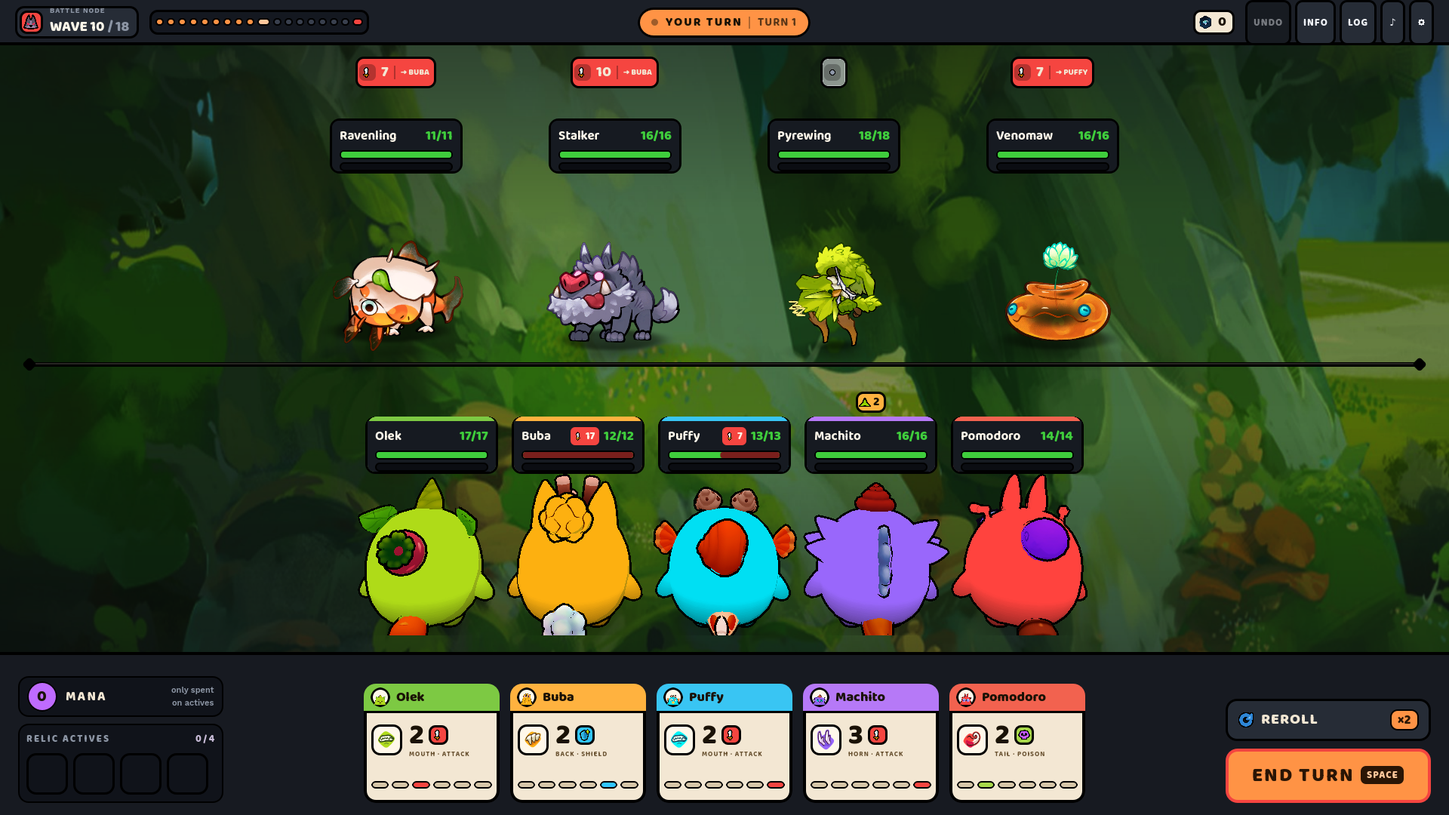
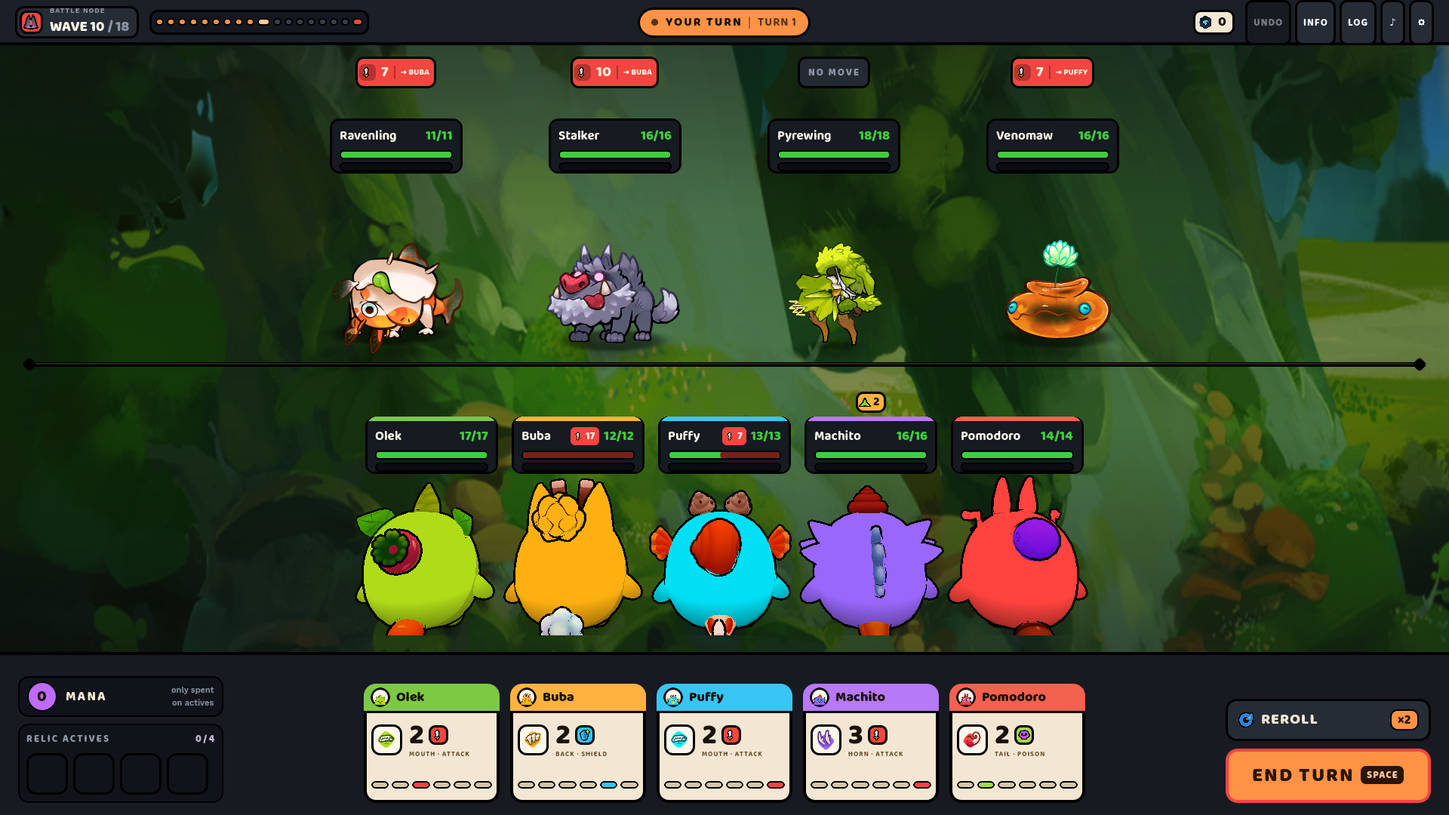
feat(run-map): MAP-10b — chip ra cạnh phải, vòng vẽ vào trong, pitch 124
Theo Empty States Spec §2 (Claude Design 21/09). Hình cũ không vừa với
chính nó: hai token trên cùng một lane đè nhau 16px NGAY CẢ KHI bỏ hẳn
chip — 53 (nửa token open) + 6 (shelf) + 61 (nửa token here) + 14 (dấu
chân vòng nhấp nháy) = 134 so với pitch 118 — và đè 52px khi còn chip
nằm dưới token. Chỉ tăng pitch thì không cứu được: giữ chip ở dưới cần
170px một hàng, bảy hàng như thế không vừa dưới 1080. Nên cả ba cùng đổi.

A · Chip neo cạnh PHẢI token, canh giữa dọc, cách mép 10px (kể cả viền).
    Vừa theo số đo chứ không theo hy vọng: lane cách nhau 370, token
    rộng nhất 122, còn 248px trống; chip rộng nhất ("YOU ARE HERE") ~152
    và kết thúc ở ~223 — còn hở 94px trước token lane kế.
B · Vòng nhấp nháy vẽ VÀO TRONG token: inset +5, radius 19, viền 4,
    BỎ quầng đen (viền 5px của token đã là quầng rồi — trước là vòng đen
    bao quanh vòng đen). Dấu chân ngoài token = 0. Blink 1.8s, 1 ↔ .35.
C · Pitch 118 -> 124: r1 946 · r2 822 · r3 698 · r4 574 · r5 450 ·
    r6 326 · r7 202. Lane 780/1150/1520 không đổi.

Ghi vào FIX-PASS-03 (CB-14b, MAP-10b; MAP-10 đánh dấu superseded phần
hình học) và thêm `mockups-v2/empty-states-v2.html` làm bản gốc.

Kênh dọc đã sạch trên mọi lane — xem ảnh chụp lại trong commit này.

Claude-Session: https://claude.ai/code/session_01GYmsRKuTkEzV3XT49C28cH

diff --git a/docs/design-handoff-v2/mockups-v2/empty-states-v2.html b/docs/design-handoff-v2/mockups-v2/empty-states-v2.html
@@ -1,0 +1,291 @@
+<!DOCTYPE html>
+<html>
+<head>
+<meta charset="utf-8">
+<meta name="viewport" content="width=device-width, initial-scale=1">
+<script src="./support.js"></script>
+</head>
+<body>
+<x-dc>
+<helmet>
+<script src="_ds/dango-design-system-b8da985f-efd5-488e-ae62-d508e48befe9/_ds_bundle.js"></script>
+<link rel="preconnect" href="https://fonts.googleapis.com">
+<link rel="preconnect" href="https://fonts.gstatic.com" crossorigin="">
+<link href="https://fonts.googleapis.com/css2?family=Baloo+2:wght@600;700;800&amp;family=Work+Sans:wght@400;500;600;700&amp;display=swap" rel="stylesheet">
+<style>
+  body { margin:0; background:#0E1016; }
+  a { color:#FF9345; text-decoration:none; }
+  a:hover { color:#FFB275; }
+  @keyframes blink { 0%,100%{opacity:1} 50%{opacity:.35} }
+</style>
+</helmet>
+
+<div style="width:1520px;margin:0 auto;padding:56px 48px 96px;box-sizing:border-box;background:#0E1016;font-family:'Work Sans',system-ui,sans-serif;color:#EDF1F6;-webkit-font-smoothing:antialiased">
+
+  <div style="display:flex;align-items:flex-end;justify-content:space-between;gap:24px;padding-bottom:20px;border-bottom:3px solid #242A34">
+    <div>
+      <div style="font-family:'Baloo 2',cursive;font-size:42px;font-weight:800;line-height:1;color:#FFF8EA">EMPTY STATES — 2 CÂU HỎI</div>
+      <div style="font-size:14px;font-weight:500;color:#A6B0BF;margin-top:8px">Bổ sung cho mockups-v2. Luật giữ nguyên: viền đen thuần, shelf cứng (shadow_size 0 + offset y), fill đặc, ink chọn theo fill.</div>
+    </div>
+    <div style="display:flex;gap:10px">
+      <div style="height:30px;padding:0 13px;display:flex;align-items:center;border-radius:9px;background:#1B1F27;border:3px solid #000;font-family:'Baloo 2',cursive;font-size:12px;font-weight:800;letter-spacing:.14em;color:#8C95A4">combat-v2</div>
+      <div style="height:30px;padding:0 13px;display:flex;align-items:center;border-radius:9px;background:#1B1F27;border:3px solid #000;font-family:'Baloo 2',cursive;font-size:12px;font-weight:800;letter-spacing:.14em;color:#8C95A4">run-flow-v2</div>
+    </div>
+  </div>
+
+  <!-- ══════════════════ 1 · INTENT BADGE ══════════════════ -->
+  <div style="margin-top:44px;display:flex;align-items:center;gap:14px">
+    <div style="width:40px;height:40px;border-radius:11px;background:#FF9345;border:3px solid #000;box-shadow:0 4px 0 rgba(0,0,0,.5);display:grid;place-items:center;font-family:'Baloo 2',cursive;font-size:22px;font-weight:800;color:#2A1505">1</div>
+    <div style="font-family:'Baloo 2',cursive;font-size:30px;font-weight:800;line-height:1;color:#FFF8EA">INTENT BADGE RỖNG</div>
+  </div>
+
+  <div style="margin-top:18px;display:flex;align-items:flex-start;gap:12px;padding:18px 20px;border-radius:14px;background:#1B1F27;border:3px solid #000;box-shadow:0 5px 0 rgba(0,0,0,.5)">
+    <div style="flex:0 0 auto;height:26px;padding:0 11px;display:flex;align-items:center;border-radius:8px;background:#3FCD3C;border:3px solid #000;font-family:'Baloo 2',cursive;font-size:12px;font-weight:800;letter-spacing:.14em;color:#07260A">ĐÁP ÁN</div>
+    <div style="font-size:16px;font-weight:600;line-height:1.55;color:#EDF1F6;text-wrap:pretty">Giữ badge, không bao giờ ẩn. Nhưng badge rỗng <strong style="color:#FFF8EA">bỏ hết cấu trúc mang số</strong>: không ô icon, không số, không gạch phân cách, không dòng “→ TÊN”. Ruột là một <strong style="color:#FFF8EA">chữ</strong> — <strong style="color:#FFF8EA">NO MOVE</strong> — chứ không phải dấu gạch hay dấu “?”. Dấu “?” được giữ riêng cho state “giấu intent”, là chuyện khác.</div>
+  </div>
+
+  <div style="margin-top:26px;display:grid;grid-template-columns:repeat(4,1fr);gap:18px">
+
+    <div style="padding:22px 20px 20px;border-radius:14px;background:#161A21;border:3px solid #242A34">
+      <div style="font-family:'Baloo 2',cursive;font-size:12px;font-weight:800;letter-spacing:.16em;color:#8C95A4">THAM CHIẾU · DMG</div>
+      <div style="height:78px;display:flex;align-items:center;margin-top:12px">
+        <div style="display:flex;align-items:center;gap:7px;height:36px;padding:0 9px 0 5px;border-radius:10px;background:#F54540;border:3px solid #000;box-shadow:0 4px 0 rgba(0,0,0,.5)">
+          <div style="width:22px;height:22px;border-radius:7px;background:rgba(0,0,0,.26);display:grid;place-items:center;flex:0 0 auto">
+            <img src="assets/fx/dmg.png" alt="" style="width:16px;height:16px;object-fit:contain">
+          </div>
+          <div style="font-family:'Baloo 2',cursive;font-size:20px;font-weight:800;line-height:1;color:#1A1206">11</div>
+          <div style="width:2px;height:18px;background:rgba(0,0,0,.28)"></div>
+          <div style="font-family:'Baloo 2',cursive;font-size:11px;font-weight:800;letter-spacing:.04em;line-height:1;color:#2A0806;white-space:nowrap">→ OLEK</div>
+        </div>
+      </div>
+      <div style="font-size:13px;font-weight:500;color:#8C95A4;margin-top:4px;line-height:1.5">Hiện có. 5 phần tử, rộng ~148px.</div>
+    </div>
+
+    <div style="padding:22px 20px 20px;border-radius:14px;background:#161A21;border:3px solid #242A34">
+      <div style="font-family:'Baloo 2',cursive;font-size:12px;font-weight:800;letter-spacing:.16em;color:#8C95A4">THAM CHIẾU · BLOCK</div>
+      <div style="height:78px;display:flex;align-items:center;margin-top:12px">
+        <div style="display:flex;align-items:center;gap:7px;height:36px;padding:0 9px 0 5px;border-radius:10px;background:#31C6FF;border:3px solid #000;box-shadow:0 4px 0 rgba(0,0,0,.5)">
+          <div style="width:22px;height:22px;border-radius:7px;background:rgba(0,0,0,.26);display:grid;place-items:center;flex:0 0 auto">
+            <img src="assets/fx/shield.png" alt="" style="width:16px;height:16px;object-fit:contain">
+          </div>
+          <div style="font-family:'Baloo 2',cursive;font-size:20px;font-weight:800;line-height:1;color:#1A1206">8</div>
+          <div style="width:2px;height:18px;background:rgba(0,0,0,.28)"></div>
+          <div style="font-family:'Baloo 2',cursive;font-size:11px;font-weight:800;letter-spacing:.04em;line-height:1;color:#2A0806;white-space:nowrap">→ SELF</div>
+        </div>
+      </div>
+      <div style="font-size:13px;font-weight:500;color:#8C95A4;margin-top:4px;line-height:1.5">Hiện có. Cùng khung, khác fill.</div>
+    </div>
+
+    <div style="padding:22px 20px 20px;border-radius:14px;background:#161A21;border:3px solid #3FCD3C;box-shadow:0 0 0 1px rgba(63,205,60,.25)">
+      <div style="font-family:'Baloo 2',cursive;font-size:12px;font-weight:800;letter-spacing:.16em;color:#3FCD3C">MỚI · KHÔNG HÀNH ĐỘNG</div>
+      <div style="height:78px;display:flex;align-items:center;margin-top:12px">
+        <div style="display:flex;align-items:center;height:36px;padding:0 14px;border-radius:10px;background:#242A34;border:3px solid #000;box-shadow:0 4px 0 rgba(0,0,0,.5);font-family:'Baloo 2',cursive;font-size:13px;font-weight:800;letter-spacing:.14em;line-height:1;color:#8C95A4;white-space:nowrap">NO MOVE</div>
+      </div>
+      <div style="font-size:13px;font-weight:500;color:#A6B0BF;margin-top:4px;line-height:1.5">1 phần tử, rộng ~104px. Không có glyph số nào.</div>
+    </div>
+
+    <div style="padding:22px 20px 20px;border-radius:14px;background:#161A21;border:3px solid #3FCD3C;box-shadow:0 0 0 1px rgba(63,205,60,.25)">
+      <div style="font-family:'Baloo 2',cursive;font-size:12px;font-weight:800;letter-spacing:.16em;color:#3FCD3C">MỚI · GIẤU INTENT</div>
+      <div style="height:78px;display:flex;align-items:center;margin-top:12px">
+        <div style="display:flex;align-items:center;gap:7px;height:36px;padding:0 13px 0 5px;border-radius:10px;background:#242A34;border:3px solid #000;box-shadow:0 4px 0 rgba(0,0,0,.5)">
+          <div style="width:22px;height:22px;border-radius:7px;background:rgba(0,0,0,.34);display:grid;place-items:center;flex:0 0 auto;font-family:'Baloo 2',cursive;font-size:16px;font-weight:800;line-height:1;color:#C7CEDA">?</div>
+          <div style="font-family:'Baloo 2',cursive;font-size:13px;font-weight:800;letter-spacing:.14em;line-height:1;color:#8C95A4;white-space:nowrap">HIDDEN</div>
+        </div>
+      </div>
+      <div style="font-size:13px;font-weight:500;color:#A6B0BF;margin-top:4px;line-height:1.5">Dấu “?” chỉ dùng ở đây. Giữ ô icon vì có ẩn một giá trị.</div>
+    </div>
+  </div>
+
+  <div style="margin-top:22px;display:grid;grid-template-columns:1fr 1fr;gap:18px">
+
+    <div style="padding:22px 24px 24px;border-radius:14px;background:#161A21;border:3px solid #242A34">
+      <div style="font-family:'Baloo 2',cursive;font-size:15px;font-weight:800;letter-spacing:.14em;color:#FFC445">SỐ ĐO — BADGE “NO MOVE”</div>
+      <div style="margin-top:14px;display:grid;grid-template-columns:auto 1fr;gap:9px 22px;font-size:14px;line-height:1.35">
+        <div style="color:#8C95A4;font-weight:600">height</div><div style="font-weight:600;color:#FFF8EA;font-variant-numeric:tabular-nums">36 px <span style="color:#6E7889;font-weight:500">— giống badge thường, không làm nhảy cột</span></div>
+        <div style="color:#8C95A4;font-weight:600">radius</div><div style="font-weight:600;color:#FFF8EA">10 px</div>
+        <div style="color:#8C95A4;font-weight:600">border</div><div style="font-weight:600;color:#FFF8EA">3 px · #000000</div>
+        <div style="color:#8C95A4;font-weight:600">shelf</div><div style="font-weight:600;color:#FFF8EA">offset y 4 · #000000 @ 50% · size 0 · spread 0</div>
+        <div style="color:#8C95A4;font-weight:600">fill</div><div style="font-weight:600;color:#FFF8EA">#242A34 <span style="color:#6E7889;font-weight:500">— ngoài bảng màu loại đòn</span></div>
+        <div style="color:#8C95A4;font-weight:600">padding</div><div style="font-weight:600;color:#FFF8EA">0 / 14 / 0 / 14</div>
+        <div style="color:#8C95A4;font-weight:600">gap</div><div style="font-weight:600;color:#FFF8EA">— <span style="color:#6E7889;font-weight:500">(một phần tử duy nhất)</span></div>
+        <div style="color:#8C95A4;font-weight:600">nhãn</div><div style="font-weight:600;color:#FFF8EA">NO MOVE</div>
+        <div style="color:#8C95A4;font-weight:600">font</div><div style="font-weight:600;color:#FFF8EA">Baloo 2 · 800 · 13 px · tracking .14em · line 1</div>
+        <div style="color:#8C95A4;font-weight:600">ink</div><div style="font-weight:600;color:#FFF8EA">#8C95A4 <span style="color:#6E7889;font-weight:500">— 4.9:1 trên #242A34</span></div>
+        <div style="color:#8C95A4;font-weight:600">rộng</div><div style="font-weight:600;color:#FFF8EA">hug content ≈ 104 px</div>
+      </div>
+    </div>
+
+    <div style="padding:22px 24px 24px;border-radius:14px;background:#161A21;border:3px solid #242A34">
+      <div style="font-family:'Baloo 2',cursive;font-size:15px;font-weight:800;letter-spacing:.14em;color:#FFC445">6 LỚP CHỐNG ĐỌC NHẦM THÀNH “0 SÁT THƯƠNG”</div>
+      <div style="margin-top:14px;display:flex;flex-direction:column;gap:10px">
+        <div style="display:flex;gap:11px;align-items:flex-start"><div style="flex:0 0 auto;width:21px;height:21px;border-radius:6px;background:#242A34;border:2px solid #000;display:grid;place-items:center;font-family:'Baloo 2',cursive;font-size:12px;font-weight:800;color:#C7CEDA;margin-top:1px">1</div><div style="font-size:14px;font-weight:500;line-height:1.5;color:#EDF1F6">Không có bất kỳ glyph chữ số nào trong badge. Số 0 không tồn tại để đọc.</div></div>
+        <div style="display:flex;gap:11px;align-items:flex-start"><div style="flex:0 0 auto;width:21px;height:21px;border-radius:6px;background:#242A34;border:2px solid #000;display:grid;place-items:center;font-family:'Baloo 2',cursive;font-size:12px;font-weight:800;color:#C7CEDA;margin-top:1px">2</div><div style="font-size:14px;font-weight:500;line-height:1.5;color:#EDF1F6">Bỏ ô icon 22px nền đen 26% — đó chính là tín hiệu “có một giá trị ở đây”.</div></div>
+        <div style="display:flex;gap:11px;align-items:flex-start"><div style="flex:0 0 auto;width:21px;height:21px;border-radius:6px;background:#242A34;border:2px solid #000;display:grid;place-items:center;font-family:'Baloo 2',cursive;font-size:12px;font-weight:800;color:#C7CEDA;margin-top:1px">3</div><div style="font-size:14px;font-weight:500;line-height:1.5;color:#EDF1F6">Bỏ gạch phân cách và dòng “→ TÊN”. Không có mục tiêu thì không có đòn.</div></div>
+        <div style="display:flex;gap:11px;align-items:flex-start"><div style="flex:0 0 auto;width:21px;height:21px;border-radius:6px;background:#242A34;border:2px solid #000;display:grid;place-items:center;font-family:'Baloo 2',cursive;font-size:12px;font-weight:800;color:#C7CEDA;margin-top:1px">4</div><div style="font-size:14px;font-weight:500;line-height:1.5;color:#EDF1F6">Fill #242A34 không nằm trong bảng loại đòn (đỏ / xanh / lục / tím). Riêng màu đã nói “không phải đòn”.</div></div>
+        <div style="display:flex;gap:11px;align-items:flex-start"><div style="flex:0 0 auto;width:21px;height:21px;border-radius:6px;background:#242A34;border:2px solid #000;display:grid;place-items:center;font-family:'Baloo 2',cursive;font-size:12px;font-weight:800;color:#C7CEDA;margin-top:1px">5</div><div style="font-size:14px;font-weight:500;line-height:1.5;color:#EDF1F6">Ink xám trên nền tối, đảo ngược trọng lượng của badge sống (ink gần đen trên fill sáng).</div></div>
+        <div style="display:flex;gap:11px;align-items:flex-start"><div style="flex:0 0 auto;width:21px;height:21px;border-radius:6px;background:#242A34;border:2px solid #000;display:grid;place-items:center;font-family:'Baloo 2',cursive;font-size:12px;font-weight:800;color:#C7CEDA;margin-top:1px">6</div><div style="font-size:14px;font-weight:500;line-height:1.5;color:#EDF1F6">Rộng co lại còn ~104px so với 148px, cả hàng địch tự động chìm xuống.</div></div>
+      </div>
+    </div>
+  </div>
+
+  <div style="margin-top:18px;padding:20px 24px;border-radius:14px;background:#161A21;border:3px solid #242A34">
+    <div style="font-family:'Baloo 2',cursive;font-size:15px;font-weight:800;letter-spacing:.14em;color:#FFC445">TẠI SAO KHÔNG ẨN HẲN</div>
+    <div style="margin-top:12px;display:grid;grid-template-columns:repeat(3,1fr);gap:20px">
+      <div style="font-size:14px;font-weight:500;line-height:1.55;color:#EDF1F6">Cột địch là stack dọc 186×370 với gap 8. Bỏ badge làm status chips và thanh HP nhảy lên <strong style="color:#FFF8EA">44px</strong> giữa lượt.</div>
+      <div style="font-size:14px;font-weight:500;line-height:1.55;color:#EDF1F6">Chỗ trống không phân biệt được “địch không làm gì” với “intent chưa roll / bị giấu”. Ba state khác nhau cần ba hình khác nhau.</div>
+      <div style="font-size:14px;font-weight:500;line-height:1.55;color:#EDF1F6">Badge là vùng bấm của tooltip intent. Ẩn đi thì người chơi mất chỗ hỏi “tại sao nó đứng im”.</div>
+    </div>
+  </div>
+
+  <!-- ══════════════════ 2 · NODE CHIP ══════════════════ -->
+  <div style="margin-top:64px;display:flex;align-items:center;gap:14px">
+    <div style="width:40px;height:40px;border-radius:11px;background:#FF9345;border:3px solid #000;box-shadow:0 4px 0 rgba(0,0,0,.5);display:grid;place-items:center;font-family:'Baloo 2',cursive;font-size:22px;font-weight:800;color:#2A1505">2</div>
+    <div style="font-family:'Baloo 2',cursive;font-size:30px;font-weight:800;line-height:1;color:#FFF8EA">CHIP NHÃN NODE BỊ ĐÈ</div>
+  </div>
+
+  <div style="margin-top:18px;display:flex;align-items:flex-start;gap:12px;padding:18px 20px;border-radius:14px;background:#1B1F27;border:3px solid #000;box-shadow:0 5px 0 rgba(0,0,0,.5)">
+    <div style="flex:0 0 auto;height:26px;padding:0 11px;display:flex;align-items:center;border-radius:8px;background:#3FCD3C;border:3px solid #000;font-family:'Baloo 2',cursive;font-size:12px;font-weight:800;letter-spacing:.14em;color:#07260A">ĐÁP ÁN</div>
+    <div style="font-size:16px;font-weight:600;line-height:1.55;color:#EDF1F6;text-wrap:pretty">Cả ba, nhưng mỗi thứ một ít: <strong style="color:#FFF8EA">chip chuyển sang cạnh phải token</strong> (rời khỏi kênh dọc hoàn toàn), <strong style="color:#FFF8EA">vòng nhấp nháy vẽ vào trong token</strong> (dấu chân ngoài = 0), <strong style="color:#FFF8EA">pitch 118 → 124</strong>. Riêng tăng pitch không cứu được: cần 170px mới đủ chỗ cho chip ở dưới, mà bảng chỉ cao 1080.</div>
+  </div>
+
+  <div style="margin-top:26px;display:grid;grid-template-columns:1fr 1fr;gap:18px">
+
+    <div style="padding:22px 20px 20px;border-radius:14px;background:#161A21;border:3px solid #242A34">
+      <div style="display:flex;align-items:center;gap:10px">
+        <div style="height:24px;padding:0 10px;display:flex;align-items:center;border-radius:7px;background:#F54540;border:2px solid #000;font-family:'Baloo 2',cursive;font-size:11px;font-weight:800;letter-spacing:.14em;color:#2A0806">HIỆN TẠI</div>
+        <div style="font-family:'Baloo 2',cursive;font-size:14px;font-weight:800;letter-spacing:.1em;color:#8C95A4">PITCH 118 · CHIP DƯỚI · VÒNG NGOÀI</div>
+      </div>
+      <div style="position:relative;width:100%;height:320px;margin-top:14px;border-radius:10px;background:#12151B;border:2px solid #242A34;overflow:hidden">
+        <div style="position:absolute;left:100px;top:27px;width:106px;height:106px;border-radius:18px;background:#8B3FD9;border:4px solid #000;box-shadow:0 6px 0 rgba(0,0,0,.5);overflow:hidden">
+          <div style="position:absolute;top:0;left:0;right:0;height:44%;background:#BF6BFF"></div>
+          <div style="position:absolute;bottom:0;left:0;right:0;height:19%;background:#5E2497"></div>
+        </div>
+        <div style="position:absolute;left:100px;top:27px;width:106px;height:106px;display:grid;place-items:center">
+          <div style="width:64px;height:64px;border-radius:50%;background:#FFF8EA;border:3px solid #000;display:grid;place-items:center">
+            <img src="assets/node/elite.png" alt="" style="width:44px;height:44px;object-fit:contain">
+          </div>
+        </div>
+        <div style="position:absolute;left:97px;top:137px;width:112px;height:3px;background:repeating-linear-gradient(90deg,#F54540 0 7px,transparent 7px 14px)"></div>
+
+        <div style="position:absolute;left:126px;top:142px;height:30px;padding:0 12px;display:flex;align-items:center;border-radius:9px;background:#FFF8EA;border:3px solid #000;box-shadow:0 3px 0 rgba(0,0,0,.45);font-family:'Baloo 2',cursive;font-size:14px;font-weight:800;letter-spacing:.08em;line-height:1;color:#1A1206;z-index:3">ELITE</div>
+
+        <div style="position:absolute;left:81px;top:123px;width:144px;height:144px;border-radius:26px;border:5px solid #FF9345;box-shadow:0 0 0 3px #000;box-sizing:border-box;z-index:2;animation:blink 1.8s ease-in-out infinite"></div>
+        <div style="position:absolute;left:92px;top:137px;width:122px;height:122px;border-radius:24px;background:#C9302B;border:5px solid #000;box-shadow:0 8px 0 rgba(0,0,0,.55);overflow:hidden">
+          <div style="position:absolute;top:0;left:0;right:0;height:44%;background:#F54540"></div>
+          <div style="position:absolute;bottom:0;left:0;right:0;height:19%;background:#8E1C18"></div>
+        </div>
+        <div style="position:absolute;left:92px;top:137px;width:122px;height:122px;display:grid;place-items:center">
+          <div style="width:74px;height:74px;border-radius:50%;background:#FFF8EA;border:3px solid #000;display:grid;place-items:center">
+            <img src="assets/node/battle.png" alt="" style="width:50px;height:50px;object-fit:contain">
+          </div>
+        </div>
+
+        <div style="position:absolute;left:246px;top:123px;right:18px;height:52px;border-left:3px solid #F54540;padding-left:12px">
+          <div style="font-family:'Baloo 2',cursive;font-size:13px;font-weight:800;letter-spacing:.1em;color:#F54540">CHỒNG 52 px</div>
+          <div style="font-size:13px;font-weight:500;color:#A6B0BF;line-height:1.45;margin-top:3px">Đáy chip + shelf ở 175. Mép trên vòng (quầng đen) ở 123.</div>
+        </div>
+        <div style="position:absolute;left:246px;top:200px;right:18px">
+          <div style="font-size:13px;font-weight:500;color:#A6B0BF;line-height:1.5">Ngay cả khi bỏ hẳn chip, hai token vẫn chồng <strong style="color:#EDF1F6">16px</strong>: 53 (nửa token mở) + 6 (shelf) + 61 (nửa token here) + 14 (vòng) = 134 &gt; pitch 118.</div>
+        </div>
+      </div>
+    </div>
+
+    <div style="padding:22px 20px 20px;border-radius:14px;background:#161A21;border:3px solid #3FCD3C;box-shadow:0 0 0 1px rgba(63,205,60,.25)">
+      <div style="display:flex;align-items:center;gap:10px">
+        <div style="height:24px;padding:0 10px;display:flex;align-items:center;border-radius:7px;background:#3FCD3C;border:2px solid #000;font-family:'Baloo 2',cursive;font-size:11px;font-weight:800;letter-spacing:.14em;color:#07260A">SỬA</div>
+        <div style="font-family:'Baloo 2',cursive;font-size:14px;font-weight:800;letter-spacing:.1em;color:#8C95A4">PITCH 124 · CHIP CẠNH PHẢI · VÒNG TRONG</div>
+      </div>
+      <div style="position:relative;width:100%;height:320px;margin-top:14px;border-radius:10px;background:#12151B;border:2px solid #242A34;overflow:hidden">
+        <div style="position:absolute;left:100px;top:27px;width:106px;height:106px;border-radius:18px;background:#8B3FD9;border:4px solid #000;box-shadow:0 6px 0 rgba(0,0,0,.5);overflow:hidden">
+          <div style="position:absolute;top:0;left:0;right:0;height:44%;background:#BF6BFF"></div>
+          <div style="position:absolute;bottom:0;left:0;right:0;height:19%;background:#5E2497"></div>
+        </div>
+        <div style="position:absolute;left:100px;top:27px;width:106px;height:106px;display:grid;place-items:center">
+          <div style="width:64px;height:64px;border-radius:50%;background:#FFF8EA;border:3px solid #000;display:grid;place-items:center">
+            <img src="assets/node/elite.png" alt="" style="width:44px;height:44px;object-fit:contain">
+          </div>
+        </div>
+        <div style="position:absolute;left:216px;top:65px;height:30px;padding:0 12px;display:flex;align-items:center;border-radius:9px;background:#FFF8EA;border:3px solid #000;box-shadow:0 3px 0 rgba(0,0,0,.45);font-family:'Baloo 2',cursive;font-size:14px;font-weight:800;letter-spacing:.08em;line-height:1;color:#1A1206">ELITE</div>
+
+        <div style="position:absolute;left:92px;top:143px;width:122px;height:122px;border-radius:24px;background:#C9302B;border:5px solid #000;box-shadow:0 8px 0 rgba(0,0,0,.55);overflow:hidden">
+          <div style="position:absolute;top:0;left:0;right:0;height:44%;background:#F54540"></div>
+          <div style="position:absolute;bottom:0;left:0;right:0;height:19%;background:#8E1C18"></div>
+        </div>
+        <div style="position:absolute;left:97px;top:148px;width:112px;height:112px;border-radius:19px;border:4px solid #FF9345;box-sizing:border-box;z-index:2;animation:blink 1.8s ease-in-out infinite"></div>
+        <div style="position:absolute;left:92px;top:143px;width:122px;height:122px;display:grid;place-items:center;z-index:3">
+          <div style="width:74px;height:74px;border-radius:50%;background:#FFF8EA;border:3px solid #000;display:grid;place-items:center">
+            <img src="assets/node/battle.png" alt="" style="width:50px;height:50px;object-fit:contain">
+          </div>
+        </div>
+        <div style="position:absolute;left:224px;top:189px;height:30px;padding:0 12px;display:flex;align-items:center;border-radius:9px;background:#FF9345;border:3px solid #000;box-shadow:0 3px 0 rgba(0,0,0,.45);font-family:'Baloo 2',cursive;font-size:14px;font-weight:800;letter-spacing:.08em;line-height:1;color:#2A1505">YOU ARE HERE</div>
+
+        <div style="position:absolute;left:97px;top:139px;width:112px;height:4px;background:repeating-linear-gradient(90deg,#3FCD3C 0 7px,transparent 7px 14px)"></div>
+        <div style="position:absolute;left:100px;top:283px;right:18px">
+          <div style="font-family:'Baloo 2',cursive;font-size:13px;font-weight:800;letter-spacing:.1em;color:#3FCD3C">HỞ 4 px</div>
+          <div style="font-size:13px;font-weight:500;color:#A6B0BF;line-height:1.45;margin-top:2px">53 + 6 (shelf) + 61 + 0 (vòng) = 120 &lt; pitch 124. Kênh dọc sạch ở mọi lane.</div>
+        </div>
+      </div>
+    </div>
+  </div>
+
+  <div style="margin-top:22px;display:grid;grid-template-columns:1fr 1fr 1fr;gap:18px">
+
+    <div style="padding:22px 24px 24px;border-radius:14px;background:#161A21;border:3px solid #242A34">
+      <div style="font-family:'Baloo 2',cursive;font-size:15px;font-weight:800;letter-spacing:.14em;color:#FFC445">A · CHIP — NEO MỚI</div>
+      <div style="margin-top:14px;display:grid;grid-template-columns:auto 1fr;gap:9px 18px;font-size:14px;line-height:1.35">
+        <div style="color:#8C95A4;font-weight:600">neo</div><div style="font-weight:600;color:#FFF8EA">cạnh phải token, canh giữa dọc</div>
+        <div style="color:#8C95A4;font-weight:600">gap</div><div style="font-weight:600;color:#FFF8EA">10 px từ mép token (kể cả viền)</div>
+        <div style="color:#8C95A4;font-weight:600">height</div><div style="font-weight:600;color:#FFF8EA">30 px <span style="color:#6E7889;font-weight:500">— giữ nguyên</span></div>
+        <div style="color:#8C95A4;font-weight:600">radius</div><div style="font-weight:600;color:#FFF8EA">9 px</div>
+        <div style="color:#8C95A4;font-weight:600">border</div><div style="font-weight:600;color:#FFF8EA">3 px · #000000</div>
+        <div style="color:#8C95A4;font-weight:600">shelf</div><div style="font-weight:600;color:#FFF8EA">offset y 3 · #000 @ 45% · size 0</div>
+        <div style="color:#8C95A4;font-weight:600">padding</div><div style="font-weight:600;color:#FFF8EA">0 / 12 / 0 / 12</div>
+        <div style="color:#8C95A4;font-weight:600">font</div><div style="font-weight:600;color:#FFF8EA">Baloo 2 · 800 · 14 px · .08em</div>
+        <div style="color:#8C95A4;font-weight:600">fill open</div><div style="font-weight:600;color:#FFF8EA">#FFF8EA · ink #1A1206</div>
+        <div style="color:#8C95A4;font-weight:600">fill here</div><div style="font-weight:600;color:#FFF8EA">#FF9345 · ink #2A1505</div>
+      </div>
+      <div style="margin-top:14px;font-size:13px;font-weight:500;line-height:1.5;color:#A6B0BF">Lane cách nhau 370px, token rộng nhất 122 → còn 248px trống ngang. Chip rộng nhất (“YOU ARE HERE”) là 152px, đặt ở 71…223px tính từ tâm: hở 94px trước token lane kế.</div>
+    </div>
+
+    <div style="padding:22px 24px 24px;border-radius:14px;background:#161A21;border:3px solid #242A34">
+      <div style="font-family:'Baloo 2',cursive;font-size:15px;font-weight:800;letter-spacing:.14em;color:#FFC445">B · VÒNG NHẤP NHÁY</div>
+      <div style="margin-top:14px;display:grid;grid-template-columns:auto 1fr;gap:9px 18px;font-size:14px;line-height:1.35">
+        <div style="color:#8C95A4;font-weight:600">inset</div><div style="font-weight:600;color:#FFF8EA">5 px <span style="color:#6E7889;font-weight:500">(was −11)</span></div>
+        <div style="color:#8C95A4;font-weight:600">radius</div><div style="font-weight:600;color:#FFF8EA">19 px <span style="color:#6E7889;font-weight:500">(was 26)</span></div>
+        <div style="color:#8C95A4;font-weight:600">border</div><div style="font-weight:600;color:#FFF8EA">4 px · #FF9345 <span style="color:#6E7889;font-weight:500">(was 5)</span></div>
+        <div style="color:#8C95A4;font-weight:600">quầng đen</div><div style="font-weight:600;color:#FFF8EA">bỏ <span style="color:#6E7889;font-weight:500">— viền token 5px đã là quầng</span></div>
+        <div style="color:#8C95A4;font-weight:600">z</div><div style="font-weight:600;color:#FFF8EA">trên thân token, dưới đĩa icon</div>
+        <div style="color:#8C95A4;font-weight:600">blink</div><div style="font-weight:600;color:#FFF8EA">1.8s ease-in-out · opacity 1 ↔ .35</div>
+        <div style="color:#8C95A4;font-weight:600">dấu chân</div><div style="font-weight:600;color:#3FCD3C">0 px ngoài token</div>
+      </div>
+      <div style="margin-top:14px;font-size:13px;font-weight:500;line-height:1.5;color:#A6B0BF">Vòng trong không mất độ nổi: token here vẫn to hơn 16px, radius 24, viền 5, shelf 8 — vòng cam chỉ cần xác nhận, không cần chiếm chỗ.</div>
+    </div>
+
+    <div style="padding:22px 24px 24px;border-radius:14px;background:#161A21;border:3px solid #242A34">
+      <div style="font-family:'Baloo 2',cursive;font-size:15px;font-weight:800;letter-spacing:.14em;color:#FFC445">C · PITCH HÀNG</div>
+      <div style="margin-top:14px;display:grid;grid-template-columns:auto 1fr;gap:9px 18px;font-size:14px;line-height:1.35">
+        <div style="color:#8C95A4;font-weight:600">pitch</div><div style="font-weight:600;color:#FFF8EA">124 px <span style="color:#6E7889;font-weight:500">(was 118)</span></div>
+        <div style="color:#8C95A4;font-weight:600">r1</div><div style="font-weight:600;color:#FFF8EA;font-variant-numeric:tabular-nums">946 <span style="color:#6E7889;font-weight:500">— giữ nguyên</span></div>
+        <div style="color:#8C95A4;font-weight:600">r2</div><div style="font-weight:600;color:#FFF8EA;font-variant-numeric:tabular-nums">822</div>
+        <div style="color:#8C95A4;font-weight:600">r3</div><div style="font-weight:600;color:#FFF8EA;font-variant-numeric:tabular-nums">698</div>
+        <div style="color:#8C95A4;font-weight:600">r4</div><div style="font-weight:600;color:#FFF8EA;font-variant-numeric:tabular-nums">574</div>
+        <div style="color:#8C95A4;font-weight:600">r5</div><div style="font-weight:600;color:#FFF8EA;font-variant-numeric:tabular-nums">450</div>
+        <div style="color:#8C95A4;font-weight:600">r6</div><div style="font-weight:600;color:#FFF8EA;font-variant-numeric:tabular-nums">326</div>
+        <div style="color:#8C95A4;font-weight:600">r7</div><div style="font-weight:600;color:#FFF8EA;font-variant-numeric:tabular-nums">202</div>
+        <div style="color:#8C95A4;font-weight:600">lane</div><div style="font-weight:600;color:#FFF8EA">780 / 1150 / 1520 <span style="color:#6E7889;font-weight:500">— không đổi</span></div>
+      </div>
+      <div style="margin-top:14px;font-size:13px;font-weight:500;line-height:1.5;color:#A6B0BF">r7 là hàng sương mù (token 94) → mép trên ở 155, dưới header 96 đủ 59px hở. Không tràn khung 1080.</div>
+    </div>
+  </div>
+
+  <div style="margin-top:18px;padding:20px 24px;border-radius:14px;background:#1B1F27;border:3px solid #000;box-shadow:0 5px 0 rgba(0,0,0,.5)">
+    <div style="font-family:'Baloo 2',cursive;font-size:15px;font-weight:800;letter-spacing:.14em;color:#FFC445">TẠI SAO KHÔNG CHỈ TĂNG PITCH</div>
+    <div style="margin-top:10px;font-size:15px;font-weight:500;line-height:1.6;color:#EDF1F6;text-wrap:pretty">Để chip ở lại dưới token thì mỗi hàng cần: 53 (nửa token mở) + 9 (gap) + 30 (chip) + 3 (shelf chip) + 61 (nửa token here) + 14 (vòng ngoài) = <strong style="color:#FFF8EA">170px</strong>. Bảy hàng × 170 = 1020px, cộng nửa token trên dưới và header 96px thì vượt 1080. Vì vậy chip phải rời kênh dọc — tăng pitch chỉ là phần bù 6px cho shelf.</div>
+  </div>
+
+</div>
+
+</x-dc>
+<script type="text/x-dc" data-dc-script data-props="{&quot;$preview&quot;:{&quot;width&quot;:1520,&quot;height&quot;:2400}}"></script>
+</body>
+</html>

diff --git a/docs/design-handoff-v2/FIX-PASS-03.md b/docs/design-handoff-v2/FIX-PASS-03.md
@@ -161,6 +161,7 @@ of different heights stand on one floor.
 | **CB-12** | **Incoming chip** (party only): between the name and the HP number, height 18, radius 6, `DANGER`, no border, 12px `dmg` icon + Baloo 14 `CREAM_RAISED`. Hidden entirely when incoming is 0 — hidden, not dimmed. **Visible** player. |
 | **CB-13** | **Status strip.** A centred row, fixed height 28 whether or not it holds anything, so the nameplate below it never moves as statuses come and go. Chip: height 28, radius 9, 3px black, solid status colour, 16px icon + count Baloo 16 inked by `ink_on()`. **Shield appears here too**, first in the row, as an `INFO` chip. **Applies to** party and enemy alike. **Visible** player. |
 | **CB-14** | **Intent badge** (enemy only): height 36, radius 10, padding 0/9/0/5, fill `DANGER` for damage or `INFO` for shield/support, 3px black, shelf 4. Contents: a 22px round-ish inner tile at 26% black holding the 16px intent icon, the value Baloo 20 `INK`, a 2px divider at 28% black, and the **target line inside the same badge** — Baloo 11 tracking .04em, `#2A0806`, non-wrapping, written `→ BUBA` with a real arrow.<br>**Applies to** every enemy intent badge. There is no party equivalent. The target text is never a sibling floating on the artwork. **Visible** player. |
+| **CB-14b** | **Empty and hidden intent — Empty States Spec §1 (2026-09-21).** The enemy badge is **never hidden**: the column is a 186×370 stack with gap 8, so removing a 42px badge drags the status chips and HP bar up 44px mid-turn; a hole cannot tell "does nothing" from "not rolled yet"; and the badge is the intent tooltip's hover target. Three states, three shapes. **NO MOVE** — one element, the word, on `INERT_FILL` (#242A34, deliberately outside the die-type palette), ink `MUTED_TEXT`, Baloo 13 tracking .14em, padding 0/14, height 36, radius 10, 3px black, shelf 4, hugging to ~104 against a live badge's ~148. No icon tile, **no digit anywhere**, no divider, no target line — six separate signals so it can never be read as "0 damage". **HIDDEN** — the same plate but the 22px tile stays, holding the one `?` this screen may draw, beside the word `HIDDEN`. A party unit hides the Control entirely; that is the only hidden case. **Check** a blank enemy face renders NO MOVE with no digit glyph. **Visible** player. |
 | **CB-15** | **Targetable ring.** When a die is selected, every legal target gets a ring inset −10 from its model box: 4px `PRIMARY` for enemies, 4px `SUCCESS` for party, with 3px black both outside and inside the coloured stroke. Illegal targets get nothing — no dimming of the rest of the board. **Applies to** both rows. **Visible** player. |
 | **CB-16** | **Status aura.** A unit carrying a status stands on a **solid ellipse** in that status colour with a 3px black edge, ~152×30 under enemies and ~156×30 under the party, under the existing black contact shadow. It is a floor decal with a hard edge — never a soft radial wash, which reads as dirt. **Visible** player. |
 | **CB-17** | **Damage floats.** Baloo 800, 58px over enemies / 54px over party, colour = the face type's colour, outlined in black on all four sides (not a blur), rising ~72px and fading over 1.15s. **Applies to** damage, heal, shield and mana events alike. **Visible** player. |
@@ -196,7 +197,8 @@ stretches, the rail does not.
 | **MAP-07** | **Header band**, right of the rail, top of the content: title `THE PATH` Baloo 44 with a `0 3px 0` black shadow at 60%; under it a Work Sans 13 line in `#EDF1F6` with a soft drop shadow — those two shadows are the sanctioned way to put type on open artwork, and are not L3 violations because they are type, not surfaces. Right-aligned in the same band: the boss card, height 66, `#C9302B`, 4px black, radius 16, shelf 6 — 44px `#F54540` icon tile, eyebrow Baloo 11 `#FFC3C0`, name Baloo 25. **Visible** player. |
 | **MAP-08** | **Node token.** Size by state: current 122, open 106, fog 94, visited/skipped 80. Radius 24 current / 18 others; border 5 current / 4 others; shelf 8 / 6 / 4. Fill is **three flat blocks** from `DangoTheme.node_tone()`: base, a top block covering the upper 44%, a bottom lip covering the lower 19%. **Applies to** every node type including boss (boss reuses the battle tone and is told apart by size and by the header ribbon). **Visible** player. |
 | **MAP-09** | **Node disc:** a centred circle, 74 / 64 / 56 / 48 px by the same state ladder, 3px black. Fill `CREAM_RAISED` normally, `CREAM_TRACK` visited, `PANEL` skipped, `WELL_DEEP` fogged. Icon 50 / 44 / 30 px at opacity 1, .5 visited, .32 skipped. A fogged node shows `?` in Baloo 32 `MUTED_TEXT` and **no icon** — the icon is not merely faded, it is absent, because a faded icon still spoils the node type. **Visible** player. |
-| **MAP-10** | **Current-node ring and label.** Ring inset −11, 5px `PRIMARY` with a 3px black halo, blinking 1.8s. Blink animates opacity, so the ring must be **shown/hidden by visibility, not by a static opacity** — an opacity-0 ring still lights up on every node when the animation drives it. Label chip below the token, height 30, radius 9, 3px black, shelf 3: current = `PRIMARY` / `INK_ON_PRIMARY` / `YOU ARE HERE`; open = `CREAM_RAISED` / `INK` / the node type name. Fogged, visited and skipped nodes have no chip. **Visible** player. |
+| **MAP-10** | **Current-node ring and label. SUPERSEDED IN PART by Empty States Spec §2 (2026-09-21) — see MAP-10b.** Ring inset −11, 5px `PRIMARY` with a 3px black halo, blinking 1.8s. Blink animates opacity, so the ring must be **shown/hidden by visibility, not by a static opacity** — an opacity-0 ring still lights up on every node when the animation drives it. Label chip below the token, height 30, radius 9, 3px black, shelf 3: current = `PRIMARY` / `INK_ON_PRIMARY` / `YOU ARE HERE`; open = `CREAM_RAISED` / `INK` / the node type name. Fogged, visited and skipped nodes have no chip. **Visible** player. |
+| **MAP-10b** | **Ring inside, chip beside, pitch 124 — Empty States Spec §2 (2026-09-21).** MAP-10's geometry did not fit its own board: two tokens on a straight lane overlapped by 16px even with the chip deleted — 53 (half an open token) + 6 (shelf) + 61 (half the current token) + 14 (the ring's outside footprint) = 134 against a 118 pitch — and 52px with the chip in the vertical channel. Raising the pitch alone cannot fix it: keeping the chip under the token needs 170px a row, and seven of those do not fit under 1080. So all three move. **(a) Chip** anchors to the token's **right edge**, vertically centred, 10px clear of it (border included); height 30, radius 9, 3px black, shelf 3, padding 0/12, Baloo 14 tracking .08em; current = `PRIMARY` / `INK_ON_PRIMARY`, open = `CREAM_RAISED` / `INK`. It fits by measurement: lanes are 370 apart, widest token 122, leaving 248 clear; the widest chip (`YOU ARE HERE`) is ~152 and ends ~223 out. **(b) Ring** is drawn **inside** the token — inset +5, radius 19, 4px `PRIMARY`, **black halo deleted** (the token's own 5px outline already is one), z above the token body and below the icon disc, blink 1.8s opacity 1↔.35, zero footprint outside the token. **(c) Pitch** 118 → 124: r1 946 · r2 822 · r3 698 · r4 574 · r5 450 · r6 326 · r7 202; lanes 780 / 1150 / 1520 unchanged. **Check** the vertical channel is clear on every lane and r7 (token 94) does not reach the header at 96. **Visible** player. |
 | **MAP-11** | **Visited badge:** a 30px `SUCCESS` circle, 3px black, shelf 3, overlapping the token's bottom-right corner by 7px, holding a ✓ in `INK_ON_SUCCESS`. **Applies to** every visited node. **Visible** player. |
 | **MAP-12** | **Edges.** Drawn in two passes so the outline is continuous: first every edge at 14px pure black, then every edge at 6px in its own colour. Round caps. Colours: travelled `#4A525F` solid; available-from-here `CREAM_HI` solid; fogged and not-taken `#242A34` dashed 9/10. Edges are drawn **under** the tokens. **Visible** player. |
 | **MAP-13** | **Graph placement.** Lanes and rows are normalised and fitted to the graph region: lanes at x = 0.0 / 0.5 / 1.0 of the region, rows evenly spaced bottom-to-top with the nearest row at the bottom. **Do not port the mockup's 780 / 1150 / 1520 or its row pixel values.** On a taller window the rows spread; the tokens do not move horizontally. **Visible** internal (it looks identical at 1080 — that is the point). |
